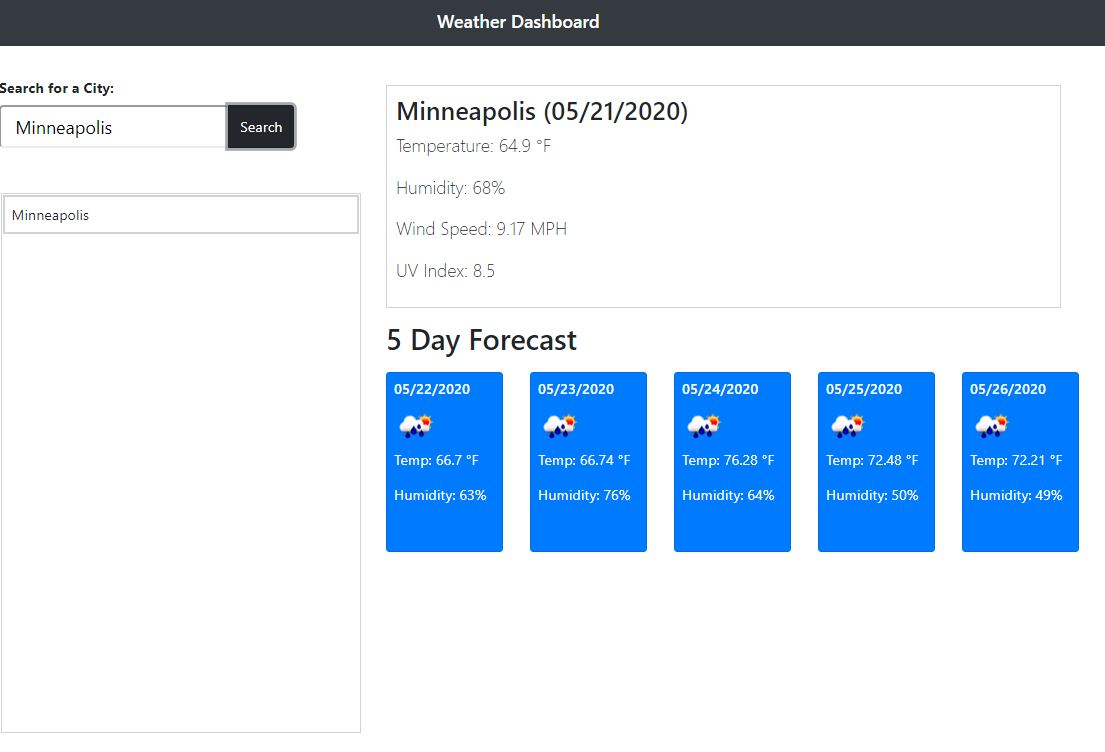
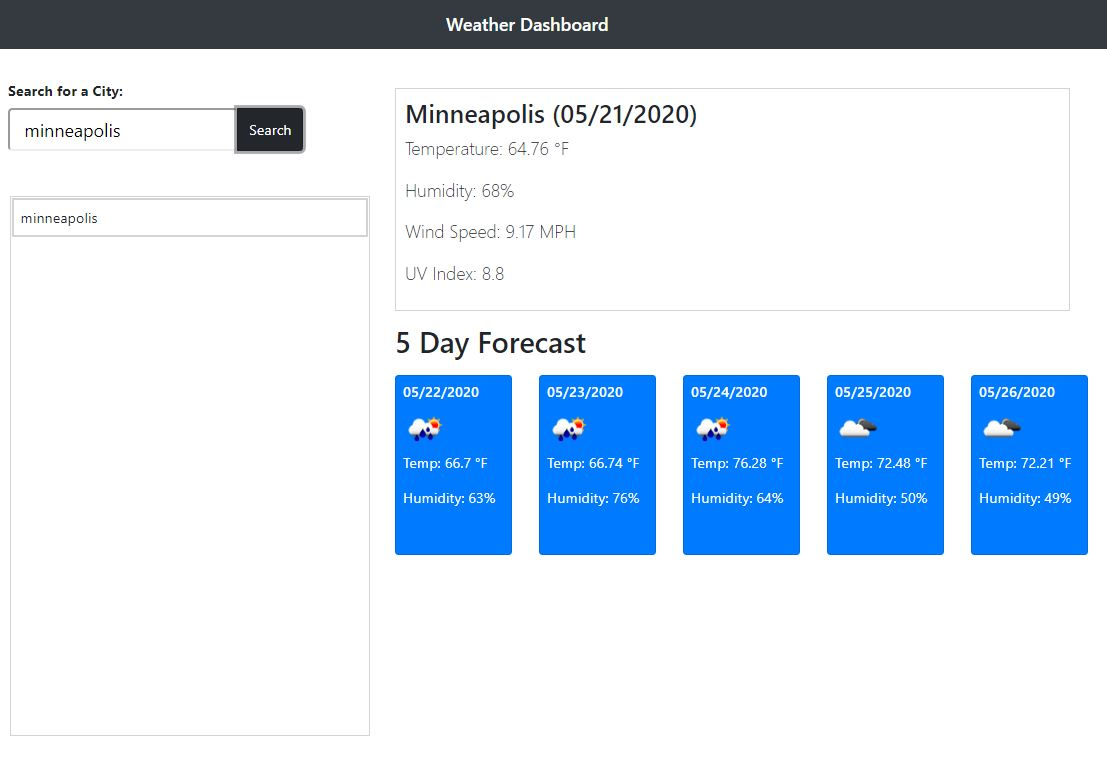
Fixed cities div list when adding a new city to create a list. Added local storage.

diff --git a/Assets/JS/script.js b/Assets/JS/script.js
@@ -20,20 +20,20 @@ btn.onclick = function(){
 
     //adding a date to current day and 5 day forecast.
     let currentDate = moment().calendar("DD-MM-YYYY");
-    let currentAnd1 = moment().add(1, 'days').calendar("DD-MM-YYYY");
-    let currentAnd2 = moment().add(2, 'days').calendar("DD-MM-YYYY");
-    let currentAnd3 = moment().add(3, 'days').calendar("DD-MM-YYYY");
-    let currentAnd4 = moment().add(4, 'days').calendar("DD-MM-YYYY");
-    let currentAnd5 = moment().add(5, 'days').calendar("DD-MM-YYYY");
+    let currentAdd1 = moment().add(1, 'days').calendar("DD-MM-YYYY");
+    let currentAdd2 = moment().add(2, 'days').calendar("DD-MM-YYYY");
+    let currentAdd3 = moment().add(3, 'days').calendar("DD-MM-YYYY");
+    let currentAdd4 = moment().add(4, 'days').calendar("DD-MM-YYYY");
+    let currentAdd5 = moment().add(5, 'days').calendar("DD-MM-YYYY");
     console.log(currentDate);
 
     function displayDate () {
     $("#currentDate").text(currentDate);
-    $("#date1").text(currentAnd1);
-    $("#date2").text(currentAnd2);
-    $("#date3").text(currentAnd3);
-    $("#date4").text(currentAnd4);
-    $("#date5").text(currentAnd5);
+    $("#date1").text(currentAdd1);
+    $("#date2").text(currentAdd2);
+    $("#date3").text(currentAdd3);
+    $("#date4").text(currentAdd4);
+    $("#date5").text(currentAdd5);
     };
     displayDate();
 
@@ -43,10 +43,10 @@ btn.onclick = function(){
     $.get(otherApi, function(forecast) {
     console.log(forecast);
 
-    //Pull the UV from one call API to current weather location div
+    //pull the UV from one call API to current weather location div
     $("#uvText").text(forecast.current.uvi);
 
-    //Temp, Humidty & Icon for 5 Day Forecast
+    //temp, humidity & icon for 5 day forecast
 
     //5-day forecast Day 1
     $("#dayOne").text(forecast.daily[1].temp.day);
@@ -60,41 +60,37 @@ btn.onclick = function(){
     $("#humid2").text(forecast.daily[2].humidity);
     var icon2 = forecast.daily[2].weather[0].icon;
     var iconURL2 = "http://openweathermap.org/img/w/" + icon2 + ".png";
-    $(".icon2").attr('src', iconURL1);
+    $(".icon2").attr('src', iconURL2);
 
     //5-day forecast Day 3
     $("#dayThree").text(forecast.daily[3].temp.day);
     $("#humid3").text(forecast.daily[3].humidity);
     var icon3 = forecast.daily[3].weather[0].icon;
     var iconURL3 = "http://openweathermap.org/img/w/" + icon3 + ".png";
-    $(".icon3").attr('src', iconURL1);
+    $(".icon3").attr('src', iconURL3);
 
     //5-day forecast Day 4
     $("#dayFour").text(forecast.daily[4].temp.day);
     $("#humid4").text(forecast.daily[4].humidity);
     var icon4 = forecast.daily[4].weather[0].icon;
     var iconURL4 = "http://openweathermap.org/img/w/" + icon4 + ".png";
-    $(".icon4").attr('src', iconURL1);
+    $(".icon4").attr('src', iconURL4);
 
     //5-day forecast Day 5
     $("#dayFive").text(forecast.daily[5].temp.day);
     $("#humid5").text(forecast.daily[5].humidity);
     var icon5 = forecast.daily[5].weather[0].icon;
     var iconURL5 = "http://openweathermap.org/img/w/" + icon5 + ".png";
-    $(".icon5").attr('src', iconURL1);
+    $(".icon5").attr('src', iconURL5);
  
     //creating a list of cities
-    var cityList ='<div class="row"></div>';
-    $(".cities").append(cityList);
+    $(".cities").append("<ul class='c'>" + city + "</ul>");
 
-    // this keeps duplicating the the city name when a new row gets appended. 
-    //How do I prevent this?
-    $(".row").text(city);
 
     })
 
     //save in local storage
-    //localStorage.setItem("cities",JSON.stringify(data));
+    localStorage.setItem("city",JSON.stringify(data));
 
   });
 }

diff --git a/Assets/CSS/style.css b/Assets/CSS/style.css
@@ -24,7 +24,7 @@ div.cities {
 
 }
 
-div.row {
+ul.c {
     border: 2px solid lightgray;
     width: auto;
     margin: 1px;
